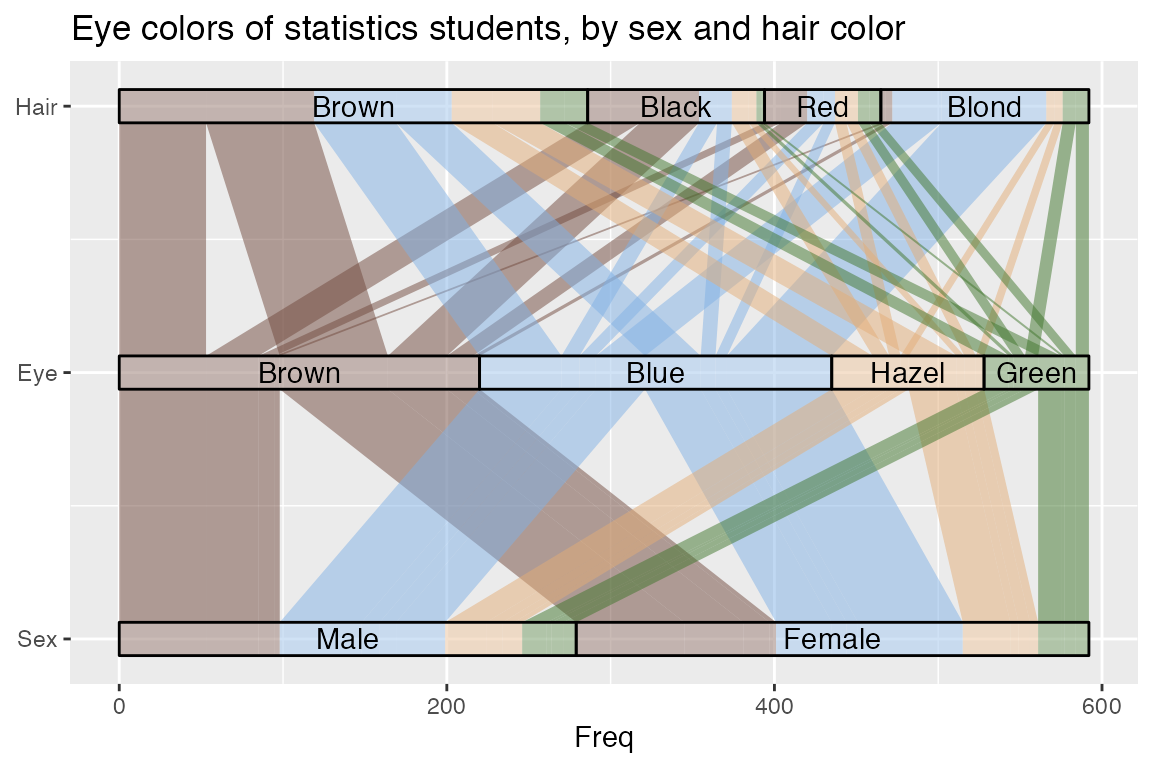
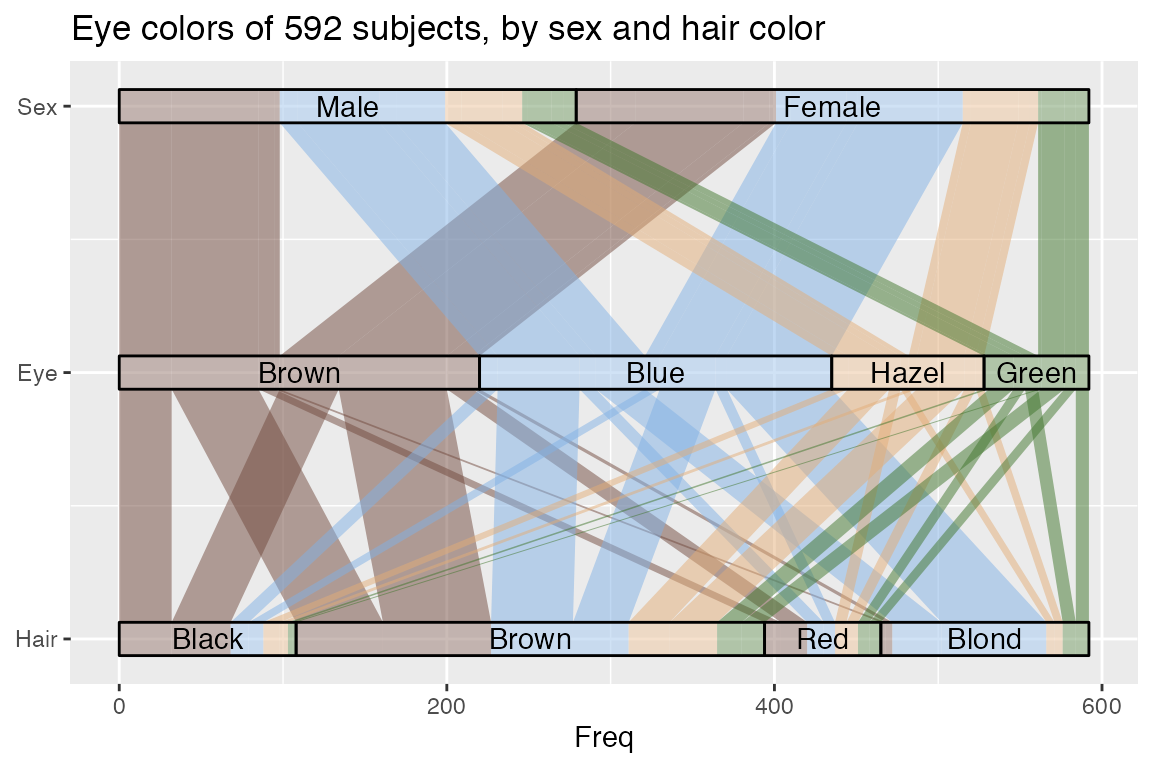
pkg(site): rebuild primary vignette article

diff --git a/docs/articles/ggalluvial.html b/docs/articles/ggalluvial.html
@@ -168,17 +168,18 @@
 <div class="sourceCode" id="cb6"><pre class="downlit sourceCode r">
 <code class="sourceCode R"><span class="fu">ggplot</span><span class="op">(</span><span class="fu"><a href="https://rdrr.io/r/base/as.data.frame.html">as.data.frame</a></span><span class="op">(</span><span class="va">HairEyeColor</span><span class="op">)</span>,
        <span class="fu">aes</span><span class="op">(</span>y <span class="op">=</span> <span class="va">Freq</span>,
-           axis1 <span class="op">=</span> <span class="va">Sex</span>, axis2 <span class="op">=</span> <span class="va">Eye</span>, axis3 <span class="op">=</span> <span class="va">Hair</span><span class="op">)</span><span class="op">)</span> <span class="op">+</span>
-  <span class="fu"><a href="../reference/geom_alluvium.html">geom_alluvium</a></span><span class="op">(</span><span class="fu">aes</span><span class="op">(</span>fill <span class="op">=</span> <span class="va">Eye</span><span class="op">)</span>, lode.guidance <span class="op">=</span> <span class="st">"zagzig"</span>,
+           axis1 <span class="op">=</span> <span class="va">Hair</span>, axis2 <span class="op">=</span> <span class="va">Eye</span>, axis3 <span class="op">=</span> <span class="va">Sex</span><span class="op">)</span><span class="op">)</span> <span class="op">+</span>
+  <span class="fu"><a href="../reference/geom_alluvium.html">geom_alluvium</a></span><span class="op">(</span><span class="fu">aes</span><span class="op">(</span>fill <span class="op">=</span> <span class="va">Eye</span><span class="op">)</span>,
                 width <span class="op">=</span> <span class="fl">1</span><span class="op">/</span><span class="fl">8</span>, knot.pos <span class="op">=</span> <span class="fl">0</span>, reverse <span class="op">=</span> <span class="cn">FALSE</span><span class="op">)</span> <span class="op">+</span>
-  <span class="fu">scale_fill_manual</span><span class="op">(</span>values <span class="op">=</span> <span class="fu"><a href="https://rdrr.io/r/base/c.html">c</a></span><span class="op">(</span><span class="st">"#70493D"</span>, <span class="st">"#81B0E4"</span>, <span class="st">"#E2AC76"</span>, <span class="st">"#3F752B"</span><span class="op">)</span><span class="op">)</span> <span class="op">+</span>
+  <span class="fu">scale_fill_manual</span><span class="op">(</span>values <span class="op">=</span> <span class="fu"><a href="https://rdrr.io/r/base/c.html">c</a></span><span class="op">(</span>Brown <span class="op">=</span> <span class="st">"#70493D"</span>, Hazel <span class="op">=</span> <span class="st">"#E2AC76"</span>,
+                               Green <span class="op">=</span> <span class="st">"#3F752B"</span>, Blue <span class="op">=</span> <span class="st">"#81B0E4"</span><span class="op">)</span><span class="op">)</span> <span class="op">+</span>
   <span class="fu">guides</span><span class="op">(</span>fill <span class="op">=</span> <span class="cn">FALSE</span><span class="op">)</span> <span class="op">+</span>
   <span class="fu"><a href="../reference/geom_stratum.html">geom_stratum</a></span><span class="op">(</span>alpha <span class="op">=</span> <span class="fl">.25</span>, width <span class="op">=</span> <span class="fl">1</span><span class="op">/</span><span class="fl">8</span>, reverse <span class="op">=</span> <span class="cn">FALSE</span><span class="op">)</span> <span class="op">+</span>
   <span class="fu">geom_text</span><span class="op">(</span>stat <span class="op">=</span> <span class="st">"stratum"</span>, <span class="fu">aes</span><span class="op">(</span>label <span class="op">=</span> <span class="fu">after_stat</span><span class="op">(</span><span class="va">stratum</span><span class="op">)</span><span class="op">)</span>,
             reverse <span class="op">=</span> <span class="cn">FALSE</span><span class="op">)</span> <span class="op">+</span>
-  <span class="fu">scale_x_continuous</span><span class="op">(</span>breaks <span class="op">=</span> <span class="fl">1</span><span class="op">:</span><span class="fl">3</span>, labels <span class="op">=</span> <span class="fu"><a href="https://rdrr.io/r/base/c.html">c</a></span><span class="op">(</span><span class="st">"Sex"</span>, <span class="st">"Eye"</span>, <span class="st">"Hair"</span><span class="op">)</span><span class="op">)</span> <span class="op">+</span>
+  <span class="fu">scale_x_continuous</span><span class="op">(</span>breaks <span class="op">=</span> <span class="fl">1</span><span class="op">:</span><span class="fl">3</span>, labels <span class="op">=</span> <span class="fu"><a href="https://rdrr.io/r/base/c.html">c</a></span><span class="op">(</span><span class="st">"Hair"</span>, <span class="st">"Eye"</span>, <span class="st">"Sex"</span><span class="op">)</span><span class="op">)</span> <span class="op">+</span>
   <span class="fu">coord_flip</span><span class="op">(</span><span class="op">)</span> <span class="op">+</span>
-  <span class="fu">ggtitle</span><span class="op">(</span><span class="st">"Eye colors of statistics students, by sex and hair color"</span><span class="op">)</span></code></pre></div>
+  <span class="fu">ggtitle</span><span class="op">(</span><span class="st">"Eye colors of 592 subjects, by sex and hair color"</span><span class="op">)</span></code></pre></div>
 <pre><code>## Warning in to_lodes_form(data = data, axes = axis_ind, discern =
 ## params$discern): Some strata appear at multiple axes.
 
@@ -373,7 +374,7 @@
 ##  xfun           0.23    2021-05-15 [2] CRAN (R 4.0.2)
 ##  yaml           2.2.1   2020-02-01 [2] CRAN (R 4.0.0)
 ## 
-## [1] /private/var/folders/pg/fjg8r4fj5v33zqmwptf9mfg80000gn/T/RtmpttHQzj/temp_libpath876b397e1655
+## [1] /private/var/folders/pg/fjg8r4fj5v33zqmwptf9mfg80000gn/T/Rtmp9exkdK/temp_libpath88a51d0d19f9
 ## [2] /Library/Frameworks/R.framework/Versions/4.0/Resources/library</code></pre>
 </div>
 <div class="footnotes">

diff --git a/docs/articles/labels.html b/docs/articles/labels.html
@@ -439,7 +439,7 @@
 ##  xfun          0.23    2021-05-15 [2] CRAN (R 4.0.2)                
 ##  yaml          2.2.1   2020-02-01 [2] CRAN (R 4.0.0)                
 ## 
-## [1] /private/var/folders/pg/fjg8r4fj5v33zqmwptf9mfg80000gn/T/RtmpttHQzj/temp_libpath876b397e1655
+## [1] /private/var/folders/pg/fjg8r4fj5v33zqmwptf9mfg80000gn/T/Rtmp9exkdK/temp_libpath88a51d0d19f9
 ## [2] /Library/Frameworks/R.framework/Versions/4.0/Resources/library</code></pre>
 </div>
   </div>

diff --git a/docs/articles/order-rectangles.html b/docs/articles/order-rectangles.html
@@ -576,7 +576,7 @@
 ##  xfun          0.23    2021-05-15 [2] CRAN (R 4.0.2)
 ##  yaml          2.2.1   2020-02-01 [2] CRAN (R 4.0.0)
 ## 
-## [1] /private/var/folders/pg/fjg8r4fj5v33zqmwptf9mfg80000gn/T/RtmpttHQzj/temp_libpath876b397e1655
+## [1] /private/var/folders/pg/fjg8r4fj5v33zqmwptf9mfg80000gn/T/Rtmp9exkdK/temp_libpath88a51d0d19f9
 ## [2] /Library/Frameworks/R.framework/Versions/4.0/Resources/library</code></pre>
 </div>
 <div class="footnotes">
